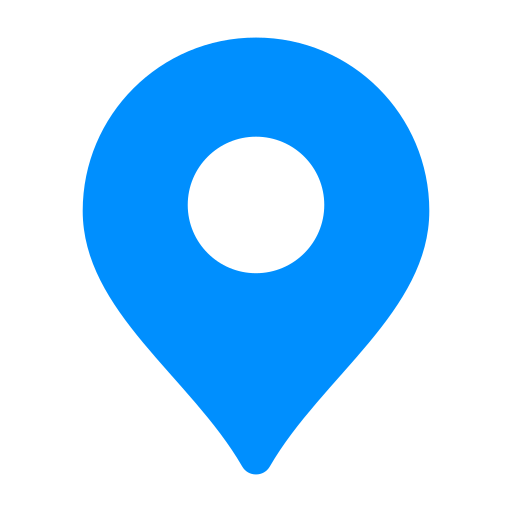
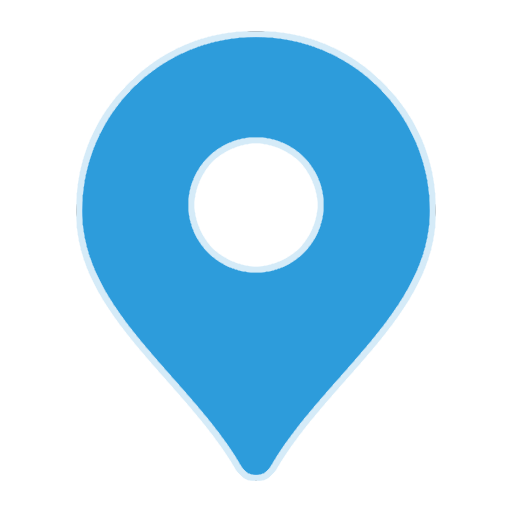
map marker tweaks

diff --git a/client/src/components/Map.js b/client/src/components/Map.js
@@ -4,16 +4,40 @@ import 'leaflet/dist/leaflet.css'
 import { MapContainer, TileLayer, useMap, Marker, Popup } from 'react-leaflet'
 import { Icon } from 'leaflet';
 import '../styles/map.css'
+import { useRequestContext } from '../context/RequestContext'
 
 const Map = () => {
-    const customIcon = new Icon({
-        iconUrl: require('../images/markers/marker-location1.png'),
-        iconSize: [38, 38],
-        iconAnchor: [12, 39],
-        shadowUrl: require('../images/markers/shadow.png'),
-        shadowSize: [15, 8],
-        shadowAnchor: [0.3, 5]
+    const { requests } = useRequestContext()
+
+    const L1accident = new Icon({
+        iconUrl: require('../images/markers/L1accident.png'),
+        iconSize: [69, 69],
+        iconAnchor: [32, 59],
+        popupAnchor: [3, -50]
     })
+
+    const L1assist = new Icon({
+        iconUrl: require('../images/markers/L1assist.png'),
+        iconSize: [69, 69],
+        iconAnchor: [32, 59],
+        popupAnchor: [3, -50]
+    })
+
+    const L1violence = new Icon({
+        iconUrl: require('../images/markers/L1violence.png'),
+        iconSize: [69, 69],
+        iconAnchor: [32, 59],
+        popupAnchor: [3, -50]
+    })
+
+    const L1security = new Icon({
+        iconUrl: require('../images/markers/L1security.png'),
+        iconSize: [69, 69],
+        iconAnchor: [32, 59],
+        popupAnchor: [3, -50]
+    })
+
+    // console.log(requests[0]);
 
     return (
         <MapContainer center={[15.735976, 120.931406]} zoom={17}>
@@ -21,11 +45,14 @@ const Map = () => {
                 attribution='&copy; <a href="https://www.openstreetmap.org/copyright">OpenStreetMap</a> contributors'
                 url='https://{s}.tile.openstreetmap.org/{z}/{x}/{y}.png'
             />
-            <Marker position={[15.735718, 120.931453]} icon={customIcon}>
-                <Popup>
-                    A pretty CSS3 popup. <br /> Easily customizable.
-                </Popup>
-            </Marker>
+            {requests.filter(request => request.status === 'New').map(request => (
+                <Marker key={request.id} position={[request.location.latitude, request.location.longitude]} icon={L1assist}>
+                    <Popup>
+                        A pop up.
+                    </Popup>
+                </Marker>
+            ))}
+            
         </MapContainer>
     )
 }
